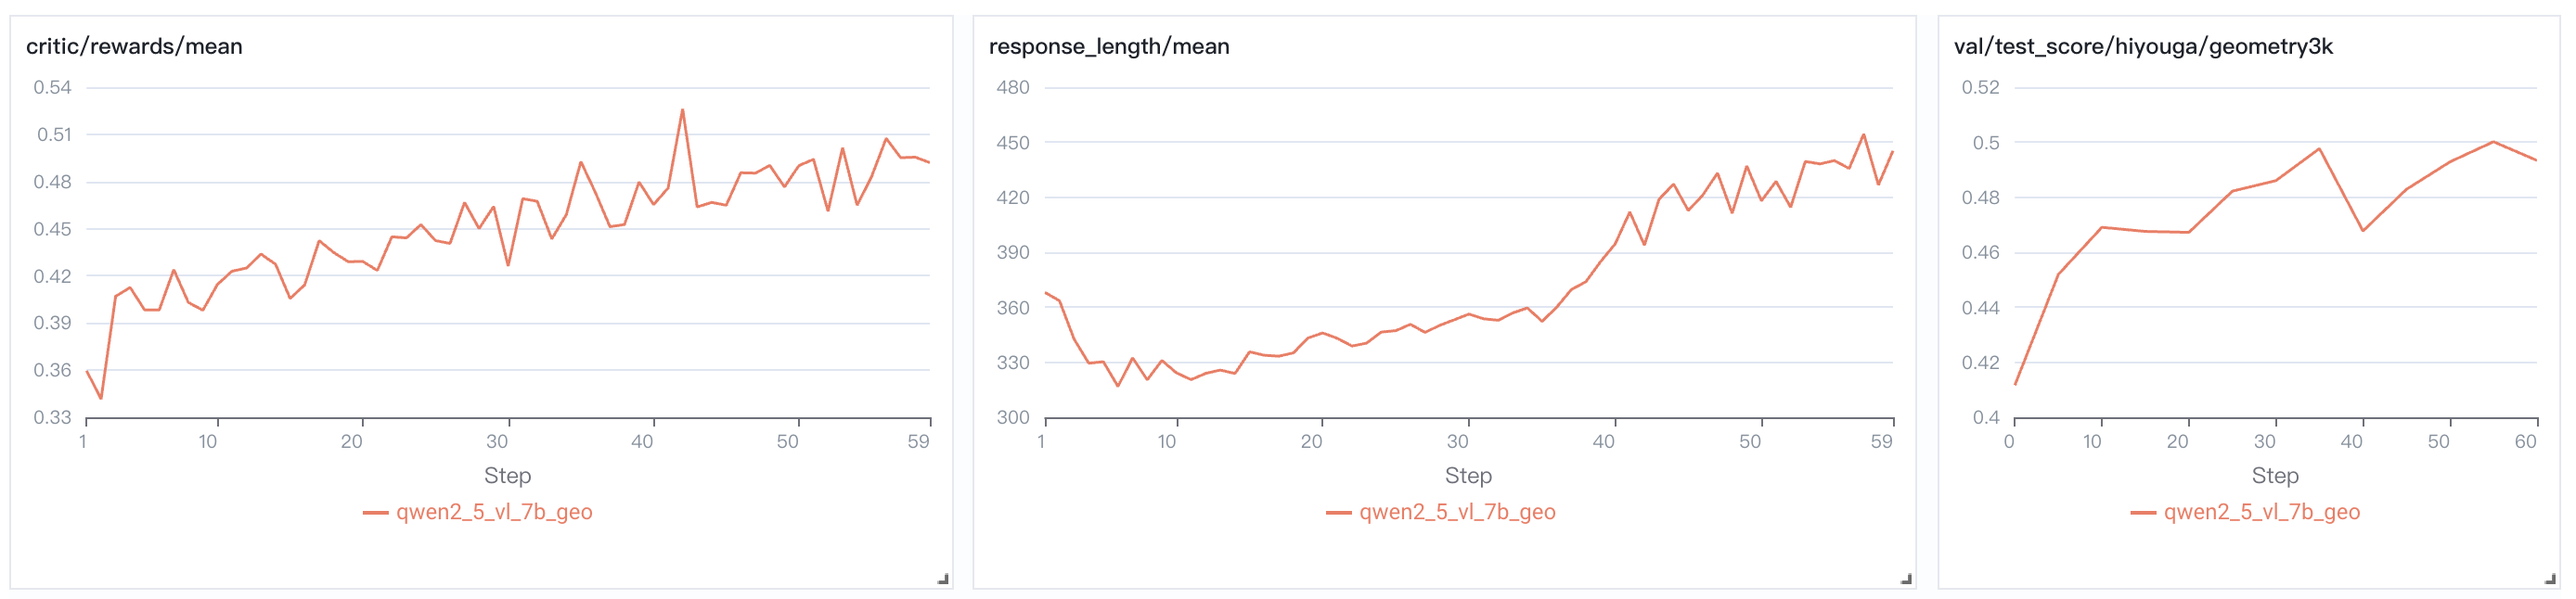
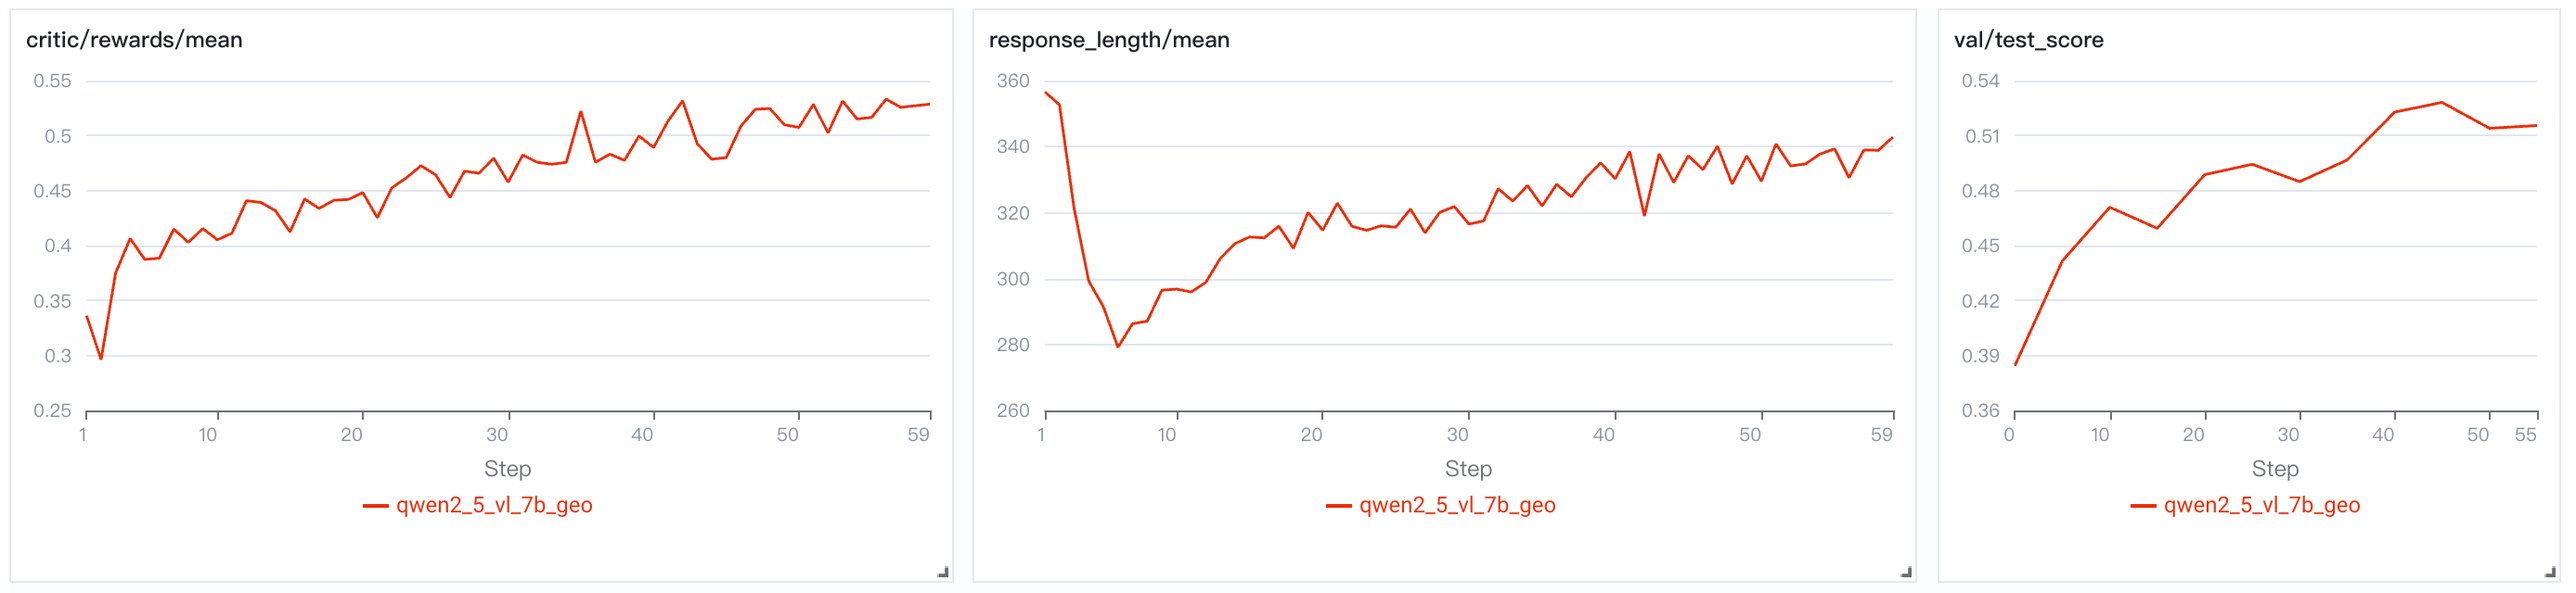
[config] update default config (#68)

diff --git a/EasyR1/verl/workers/fsdp_workers.py b/EasyR1/verl/workers/fsdp_workers.py
@@ -116,21 +116,38 @@ class FSDPWorker(Worker):
             self.config.actor.global_batch_size_per_device = (
                 self.config.actor.global_batch_size // self.device_mesh.shape[0] * self.ulysses_sequence_parallel_size
             )
-            assert (
+            if (
                 self.config.actor.global_batch_size_per_device
                 % self.config.actor.micro_batch_size_per_device_for_update
-                == 0
-            )
+                != 0
+            ):
+                raise ValueError("Global batch size should be divisible by the micro batch size.")
+
+            if (
+                self.config.actor.fsdp.enable_cpu_offload
+                and self.config.actor.global_batch_size_per_device
+                != self.config.actor.micro_batch_size_per_device_for_update
+            ):
+                raise ValueError("Cannot use FSDP's CPU offload when gradient accumulation is enabled.")
+
         elif self._is_critic:
             self.config.critic.global_batch_size *= self.config.rollout.n
             self.config.critic.global_batch_size_per_device = (
                 self.config.critic.global_batch_size // self.device_mesh.shape[0] * self.ulysses_sequence_parallel_size
             )
-            assert (
+            if (
                 self.config.critic.global_batch_size_per_device
                 % self.config.critic.micro_batch_size_per_device_for_update
-                == 0
-            )
+                != 0
+            ):
+                raise ValueError("Global batch size should be divisible by the micro batch size.")
+
+            if (
+                self.config.critic.fsdp.enable_cpu_offload
+                and self.config.critic.global_batch_size_per_device
+                != self.config.critic.micro_batch_size_per_device_for_update
+            ):
+                raise ValueError("Cannot use FSDP's CPU offload when gradient accumulation is enabled.")
 
     def _build_model_optimizer(
         self,

diff --git a/EasyR1/README.md b/EasyR1/README.md
@@ -92,7 +92,8 @@ Please refer to the example datasets to prepare your own dataset.
 
 ![image](assets/easyr1_grpo.png)
 
-- To learn about the GRPO algorithm, you can refer to [Hugging Face's blog](https://huggingface.co/docs/trl/v0.15.2/en/grpo_trainer#looking-deeper-into-the-grpo-method).
+- To learn about the GRPO algorithm, you can refer to [Hugging Face's blog](https://huggingface.co/docs/trl/v0.15.2/en/grpo_trainer).
+- Different from TRL's GRPO trainer, our trainer supports mini-batch update as described in the [original PPO paper](https://arxiv.org/abs/1707.06347).
 
 ## Other Baselines
 
